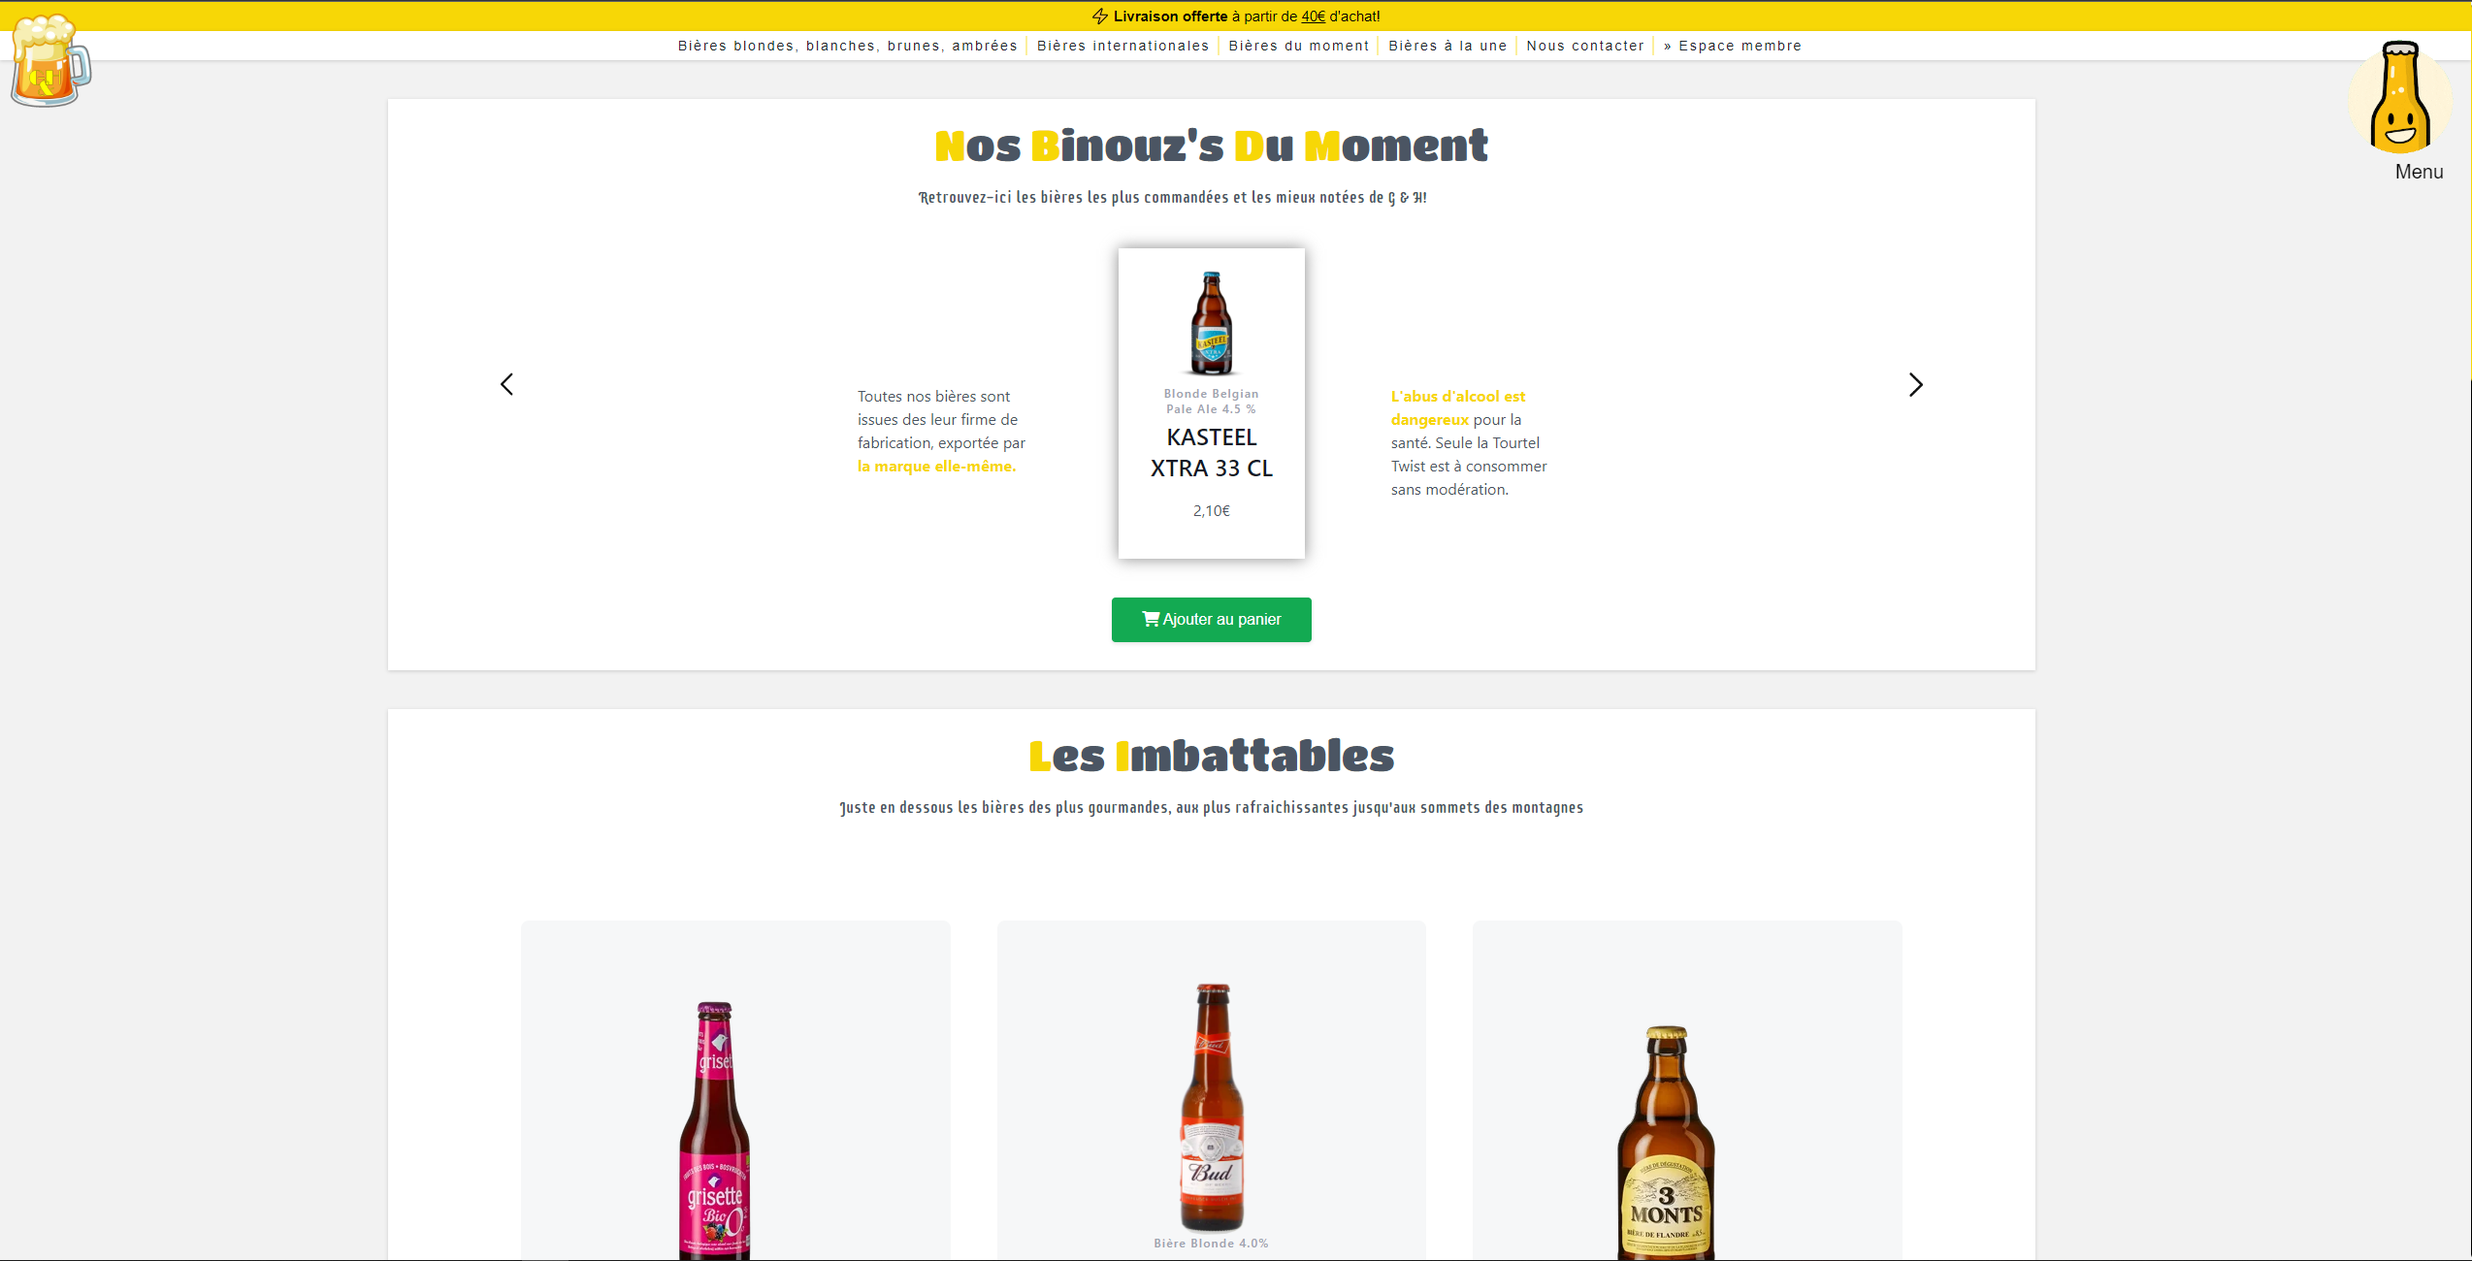
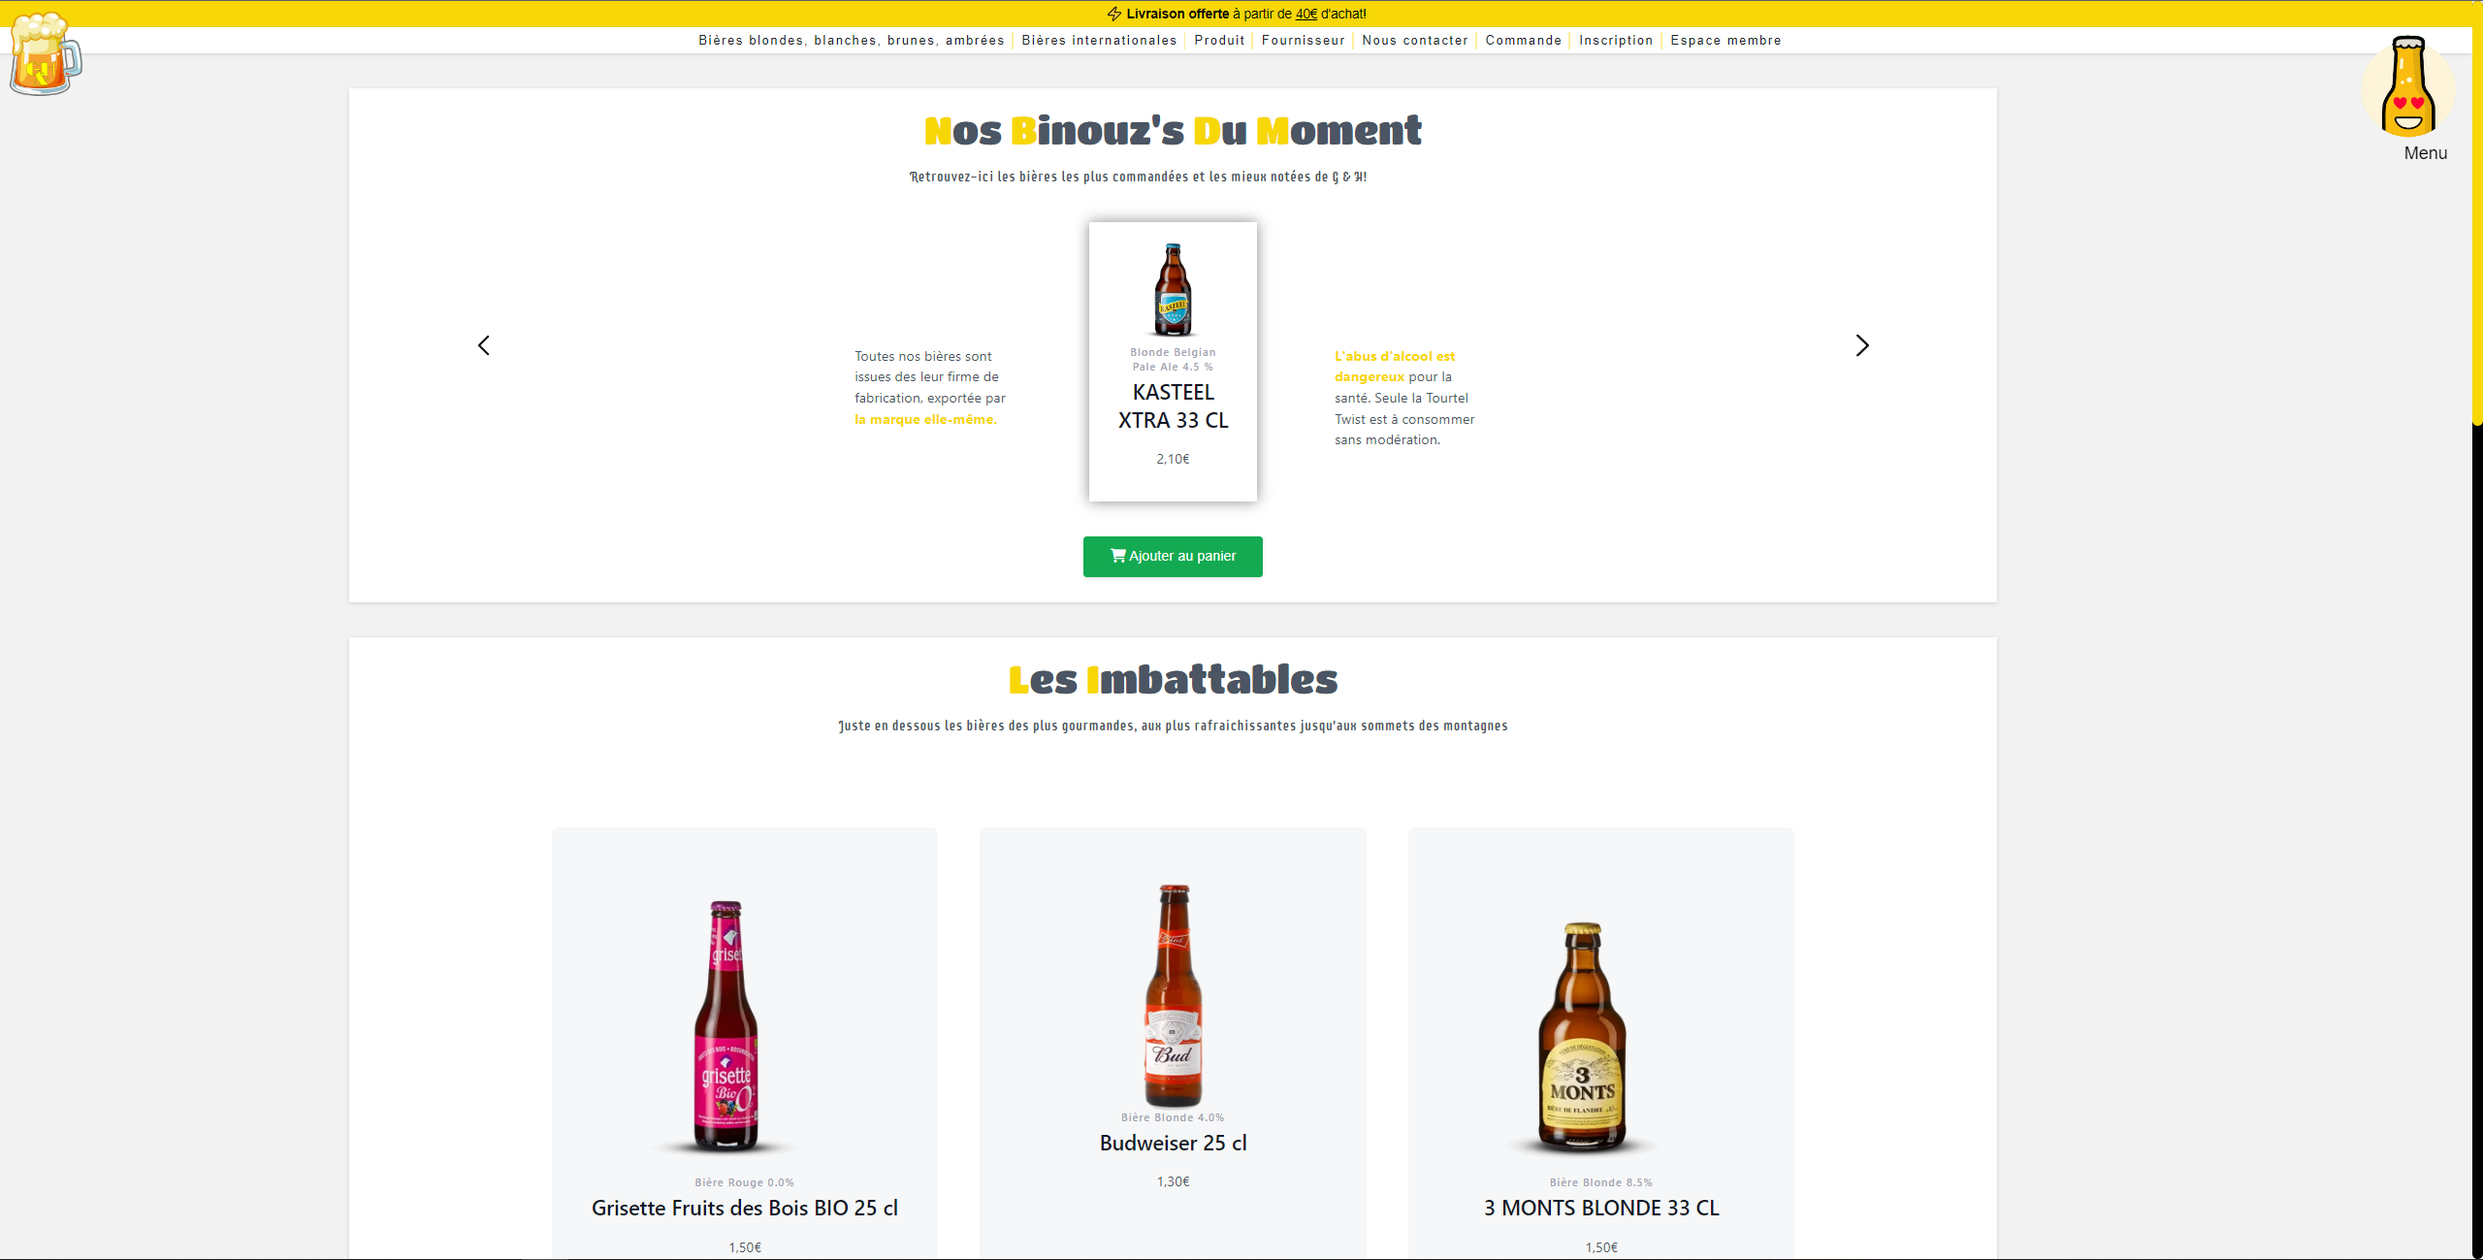
dsz

diff --git a/desc_ghbiere.html b/desc_ghbiere.html
@@ -74,7 +74,7 @@
           <div class="flex flex-wrap -m-4">
             <div class="lg:w-1/3 sm:w-1/2 p-4">
               <div class="flex relative">
-                <img alt="gallery" class="absolute inset-0 w-full h-full object-cover object-center" src="https://dummyimage.com/600x360">
+                <img alt="gallery" class="absolute inset-0 w-full h-full object-cover object-center" src="assets/img/accueil_ghbiere.jpg">
                 <div class="px-8 py-10 relative z-10 w-full border-4 border-gray-200 bg-white opacity-0 hover:opacity-100">
                   <h2 class="tracking-widest text-sm title-font font-medium text-indigo-500 mb-1">THE SUBTITLE</h2>
                   <h1 class="title-font text-lg font-medium text-gray-900 mb-3">Shooting Stars</h1>
@@ -84,7 +84,7 @@
             </div>
             <div class="lg:w-1/3 sm:w-1/2 p-4">
               <div class="flex relative">
-                <img alt="gallery" class="absolute inset-0 w-full h-full object-cover object-center" src="https://dummyimage.com/601x361">
+                <img alt="gallery" class="absolute inset-0 w-full h-full object-cover object-center" src="assets/img/form_fournisseur.jpg">
                 <div class="px-8 py-10 relative z-10 w-full border-4 border-gray-200 bg-white opacity-0 hover:opacity-100">
                   <h2 class="tracking-widest text-sm title-font font-medium text-indigo-500 mb-1">THE SUBTITLE</h2>
                   <h1 class="title-font text-lg font-medium text-gray-900 mb-3">The Catalyzer</h1>
@@ -94,7 +94,7 @@
             </div>
             <div class="lg:w-1/3 sm:w-1/2 p-4">
               <div class="flex relative">
-                <img alt="gallery" class="absolute inset-0 w-full h-full object-cover object-center" src="https://dummyimage.com/603x363">
+                <img alt="gallery" class="absolute inset-0 w-full h-full object-cover object-center" src="assets/img/form_produit.jpg">
                 <div class="px-8 py-10 relative z-10 w-full border-4 border-gray-200 bg-white opacity-0 hover:opacity-100">
                   <h2 class="tracking-widest text-sm title-font font-medium text-indigo-500 mb-1">THE SUBTITLE</h2>
                   <h1 class="title-font text-lg font-medium text-gray-900 mb-3">The 400 Blows</h1>
@@ -104,7 +104,7 @@
             </div>
             <div class="lg:w-1/3 sm:w-1/2 p-4">
               <div class="flex relative">
-                <img alt="gallery" class="absolute inset-0 w-full h-full object-cover object-center" src="https://dummyimage.com/602x362">
+                <img alt="gallery" class="absolute inset-0 w-full h-full object-cover object-center" src="assets/img/contact_ghbiere.jpg">
                 <div class="px-8 py-10 relative z-10 w-full border-4 border-gray-200 bg-white opacity-0 hover:opacity-100">
                   <h2 class="tracking-widest text-sm title-font font-medium text-indigo-500 mb-1">THE SUBTITLE</h2>
                   <h1 class="title-font text-lg font-medium text-gray-900 mb-3">Neptune</h1>
@@ -114,7 +114,7 @@
             </div>
             <div class="lg:w-1/3 sm:w-1/2 p-4">
               <div class="flex relative">
-                <img alt="gallery" class="absolute inset-0 w-full h-full object-cover object-center" src="https://dummyimage.com/605x365">
+                <img alt="gallery" class="absolute inset-0 w-full h-full object-cover object-center" src="assets/img/espace_membre_ghbiere.jpg">
                 <div class="px-8 py-10 relative z-10 w-full border-4 border-gray-200 bg-white opacity-0 hover:opacity-100">
                   <h2 class="tracking-widest text-sm title-font font-medium text-indigo-500 mb-1">THE SUBTITLE</h2>
                   <h1 class="title-font text-lg font-medium text-gray-900 mb-3">Holden Caulfield</h1>
@@ -124,7 +124,7 @@
             </div>
             <div class="lg:w-1/3 sm:w-1/2 p-4">
               <div class="flex relative">
-                <img alt="gallery" class="absolute inset-0 w-full h-full object-cover object-center" src="https://dummyimage.com/606x366">
+                <img alt="gallery" class="absolute inset-0 w-full h-full object-cover object-center" src="assets/img/modif_form_ghbiere.jpg">
                 <div class="px-8 py-10 relative z-10 w-full border-4 border-gray-200 bg-white opacity-0 hover:opacity-100">
                   <h2 class="tracking-widest text-sm title-font font-medium text-indigo-500 mb-1">THE SUBTITLE</h2>
                   <h1 class="title-font text-lg font-medium text-gray-900 mb-3">Alper Kamu</h1>
@@ -134,6 +134,95 @@
             </div>
           </div>
         </div>
+        <div class="container px-5 py-24 mx-auto flex flex-wrap">
+          <div class="flex flex-wrap -m-4 bg-sky-900">
+            <div class="p-4 lg:w-1/2 md:w-full">
+              <div class="flex border-2 rounded-lg border-gray-200 border-opacity-50 p-8 sm:flex-row flex-col bg-sky-900">
+                <div class="w-16 h-16 sm:mr-8 sm:mb-0 mb-4 inline-flex items-center justify-center rounded-full bg-indigo-100 text-indigo-500 flex-shrink-0">
+                    <svg xmlns="http://www.w3.org/2000/svg" xmlns:xlink="http://www.w3.org/1999/xlink" version="1.1" id="Capa_1" x="0px" y="0px" width="32.045px" height="32.046px" viewBox="0 0 32.045 32.046" style="enable-background:new 0 0 32.045 32.046;" xml:space="preserve">
+                        <g>
+                            <g>
+                                <path d="M25.302,6.499h-2.308v-0.6c0-1.181-0.957-2.138-2.137-2.138h-1.021C19.807,1.675,18.108,0,16.022,0    c-2.086,0-3.785,1.675-3.815,3.761h-1.021c-1.18,0-2.137,0.957-2.137,2.138v0.6H6.742c-0.765,0-1.408,0.618-1.408,1.383v22.78    c0,0.765,0.643,1.384,1.408,1.384h18.561c0.766,0,1.408-0.619,1.408-1.384V7.881C26.71,7.117,26.067,6.499,25.302,6.499z     M16.022,1.999c0.984,0,1.788,0.785,1.817,1.762h-3.634C14.235,2.784,15.038,1.999,16.022,1.999z M24.95,30.35H7.094V8.192h1.955    v1.564h13.945V8.192h1.955V30.35z"/>
+                                <path d="M22.476,12.69h-4.495c-0.707,0-1.283,0.527-1.283,1.236s0.576,1.238,1.283,1.238h4.495c0.708,0,1.282-0.529,1.282-1.238    S23.184,12.69,22.476,12.69z"/>
+                                <path d="M11.481,13.864l-0.965-0.752c-0.238-0.187-0.58-0.156-0.782,0.068l-0.556,0.616c-0.106,0.118-0.159,0.275-0.146,0.435    c0.014,0.159,0.092,0.305,0.217,0.403l1.683,1.328c0.406,0.321,0.988,0.287,1.354-0.079l2.949-2.949    c0.143-0.143,0.223-0.336,0.223-0.538s-0.08-0.396-0.223-0.538l-0.337-0.337c-0.297-0.297-0.778-0.297-1.075,0L11.481,13.864z"/>
+                                <path d="M22.476,18.424h-4.495c-0.707,0-1.283,0.529-1.283,1.238c0,0.707,0.576,1.238,1.283,1.238h4.495    c0.708,0,1.282-0.531,1.282-1.238C23.758,18.954,23.184,18.424,22.476,18.424z"/>
+                                <path d="M11.481,19.598l-0.965-0.752c-0.238-0.186-0.58-0.154-0.782,0.069l-0.556,0.616c-0.106,0.117-0.159,0.275-0.146,0.435    c0.014,0.158,0.092,0.306,0.217,0.403l1.683,1.328c0.407,0.32,0.989,0.285,1.355-0.08l2.95-2.949    c0.143-0.143,0.223-0.336,0.223-0.538c0-0.2-0.08-0.396-0.223-0.538L14.9,17.255c-0.297-0.297-0.778-0.297-1.075,0L11.481,19.598z    "/>
+                                <path d="M22.476,23.963h-4.495c-0.707,0-1.283,0.529-1.283,1.238s0.576,1.238,1.283,1.238h4.495c0.708,0,1.282-0.529,1.282-1.238    S23.184,23.963,22.476,23.963z"/>
+                                <path d="M11.481,25.137l-0.965-0.752c-0.238-0.188-0.58-0.156-0.782,0.068l-0.556,0.615c-0.106,0.119-0.16,0.275-0.146,0.436    c0.013,0.159,0.092,0.305,0.217,0.402l1.683,1.33c0.407,0.32,0.989,0.285,1.355-0.08l2.95-2.95c0.297-0.298,0.297-0.776,0-1.075    L14.9,22.794c-0.143-0.144-0.336-0.224-0.538-0.224s-0.395,0.08-0.538,0.224L11.481,25.137z"/>
+                            </g>
+                        </svg>
+                </div>
+                <div class="flex-grow">
+                  <h2 class="text-gray-900 text-lg title-font font-medium mb-3">Le projet</h2>
+                  <p class="leading-relaxed text-base">Ce projet a eu 2 étapes. Tout d'abord, un projet a 2 avec un camarade à moi de mon école, nous avons eu à réaliser un site web avec plsuieurs pages fonctionnel. Deuxièment, je me suis servis de ce site pour incorporer tout les petit exercise de PHP que j'effectuais en cours.</p>
+                </div>
+              </div>
+            </div>
+
+            <div class="p-4 lg:w-1/2 md:w-full">
+              <div class="flex border-2 rounded-lg border-gray-200 border-opacity-50 p-8 sm:flex-row flex-col">
+                <div class="w-16 h-16 sm:mr-8 sm:mb-0 mb-4 inline-flex items-center justify-center rounded-full bg-indigo-100 text-indigo-500 flex-shrink-0">
+                    <svg xmlns="http://www.w3.org/2000/svg" xmlns:xlink="http://www.w3.org/1999/xlink" version="1.1" id="Layer_1" x="0px" y="0px" width="30" height="30" viewBox="796 796 200 200" enable-background="new 796 796 200 200" xml:space="preserve"><circle cx="18" cy="5" r="3"></circle><circle cx="6" cy="12" r="3"></circle>
+                        <g>
+                            <g>
+                                <path d="M976.83,857.4l-56.941-56.941c-2.874-2.875-6.696-4.458-10.762-4.458H825.93c-8.393,0-15.218,6.828-15.218,15.222v169.56    c0,8.393,6.825,15.219,15.218,15.219h140.139c8.392,0,15.219-6.826,15.219-15.219V868.162    C981.288,864.099,979.705,860.275,976.83,857.4z M969.675,980.781c0,1.989-1.616,3.608-3.605,3.608H825.93    c-1.989,0-3.605-1.619-3.605-3.608V811.22c0-1.988,1.616-3.605,3.605-3.605h79.41c2.174,0,3.936,1.762,3.936,3.936v42.937    c0,7.25,5.876,13.126,13.123,13.126h43.343c1.044,0,2.045,0.415,2.783,1.152c0.738,0.738,1.152,1.739,1.152,2.783L969.675,980.781    z"/>
+                            </g>
+                            <g>
+                                <g>
+                                    <path d="M872.593,962.403c-1.527,0-3.054-0.583-4.219-1.749l-34.132-34.131l34.132-34.131c2.331-2.33,6.108-2.329,8.438,0     c2.331,2.33,2.331,6.108,0,8.438l-25.693,25.693l25.693,25.693c2.331,2.329,2.331,6.107,0,8.437     C875.647,961.82,874.12,962.403,872.593,962.403z"/>
+                                </g>
+                                <g>
+                                    <path d="M919.407,962.403c-1.527,0-3.055-0.583-4.219-1.749c-2.331-2.329-2.331-6.107,0-8.437l25.691-25.693l-25.691-25.693     c-2.331-2.33-2.331-6.108,0-8.438c2.328-2.33,6.109-2.33,8.438,0l34.132,34.131l-34.132,34.131     C922.462,961.82,920.934,962.403,919.407,962.403z"/>
+                                </g>
+                                <g>
+                                    <path d="M888.169,962.404c-0.49,0-0.987-0.061-1.483-0.188c-3.193-0.816-5.12-4.066-4.303-7.26l15.297-59.823     c0.815-3.192,4.067-5.119,7.261-4.303c3.191,0.816,5.117,4.066,4.301,7.259l-15.296,59.825     C893.256,960.611,890.83,962.404,888.169,962.404z"/>
+                                </g>
+                            </g>
+                        </g>
+                        </svg>
+                </div>
+                <div class="flex-grow">
+                  <h2 class="text-gray-900 text-lg title-font font-medium mb-3">Technologies</h2>
+                  <p class="leading-relaxed text-base">Les technologies que nous avons princiaplement utiliser sont l'HTML et le CSS pour la partie Front-End du site et nous avons incorporer quelque petit fonctionnalité JS. Et j'ai également utiliser du PHP et SQL pour tout ce qui est formulaire, modification et suppression.</p>
+                </div>
+              </div>
+            </div>
+
+            <div class="p-4 lg:w-1/2 md:w-full">
+              <div class="flex border-2 rounded-lg border-gray-200 border-opacity-50 p-8 sm:flex-row flex-col">
+                <div class="w-16 h-16 sm:mr-8 sm:mb-0 mb-4 inline-flex items-center justify-center rounded-full bg-indigo-100 text-indigo-500 flex-shrink-0">
+                    <svg xmlns="http://www.w3.org/2000/svg" xmlns:xlink="http://www.w3.org/1999/xlink" version="1.1" id="Capa_1" x="0px" y="0px" width="30" height="30" viewBox="0 0 67.025 67.026" style="enable-background:new 0 0 67.025 67.026;" xml:space="preserve">
+                        <g>
+                            <g>
+                                <g>
+                                    <polygon points="41.441,29.477 44.576,31.269 50.848,27.685 41.441,22.086    "/>
+                                    <path d="M60.48,18.052l2.24-4.031c1.791-3.137-3.359-6.721-5.824-8.063c-2.465-1.345-8.063-4.257-9.855-0.896l-3.137,5.376     c-3.137-0.672-6.721-1.12-10.304-1.12C15.008,9.317,0,19.398,0,31.718c0,12.318,15.008,22.398,33.6,22.398c0,0,0,0,0.225,0     c0.224,2.688-2.912,7.168-7.393,9.407c17.698,0,25.761-13.216,25.761-13.216c8.959-4.032,14.783-10.752,14.783-18.592     C67.424,26.565,64.736,21.861,60.48,18.052z M15.455,37.99c-1.792,0-3.136-1.346-3.136-3.138c0-1.792,1.344-3.136,3.136-3.136     s3.136,1.344,3.136,3.136C18.591,36.644,17.025,37.99,15.455,37.99z M23.743,37.99c-1.792,0-3.136-1.346-3.136-3.138     c0-1.792,1.344-3.136,3.136-3.136s3.136,1.344,3.136,3.136C26.879,36.644,25.535,37.99,23.743,37.99z M32.032,37.99     c-1.792,0-3.137-1.346-3.137-3.138c0-1.792,1.345-3.136,3.137-3.136s3.136,1.344,3.136,3.136     C35.168,36.644,33.824,37.99,32.032,37.99z M51.969,28.357l-6.496,3.584l-5.377,2.911v-6.047v-7.392l8.961-15.456     c0.447-0.896,3.584,0,6.943,1.792s5.6,4.031,4.928,4.928L51.969,28.357z"/>
+                                </g></svg>
+                </div>
+                <div class="flex-grow">
+                  <h2 class="text-gray-900 text-lg title-font font-medium mb-3">Contexte</h2>
+                  <p class="leading-relaxed text-base">Ce site a été créé princiaplement pour une évalution et ma servit ensuite à avoir un aspect visuelle pour tout mes erxercise de PHP et SQL.</p>
+                   
+                    
+                  </a>
+                </div>
+              </div>
+            </div>
+            <div class="p-4 lg:w-1/2 md:w-full ">
+              <div class="flex border-2 rounded-lg border-gray-200 border-opacity-50 p-8 sm:flex-row flex-col">
+                <div class="w-16 h-16 sm:mr-8 sm:mb-0 mb-4 inline-flex items-center justify-center rounded-full bg-indigo-100 text-indigo-500 flex-shrink-0">
+                    <svg xmlns="http://www.w3.org/2000/svg" width="24" height="24" viewBox="0 0 24 24" fill="none" stroke="#000000" stroke-width="2" stroke-linecap="round" stroke-linejoin="round"><circle cx="18" cy="5" r="3"></circle><circle cx="6" cy="12" r="3"></circle><circle cx="18" cy="19" r="3"></circle><line x1="8.59" y1="13.51" x2="15.42" y2="17.49"></line><line x1="15.41" y1="6.51" x2="8.59" y2="10.49"></line></svg>
+                </div>
+                <div class="flex-grow">
+                  <h2 class="text-gray-900 text-lg title-font font-medium mb-3">Compétences</h2>
+                  <p class="leading-relaxed text-base">Grace à ce projet j'ai appris énormément de chose. Tout d'abord finaliser mon apprentissage de mon HTML et CSS et découvrir en même temps les bases du JS. mais surtout j'ai énormément appris en PHP/SQL avec la création de formulaire connecté à une base de donné avec d'autre formulaire pour les modifier et les supprimer. pour finir j'ai aussi appris en termes de gestion d'équipe (ce mettre d'accord avec son camarade sur qu'est ce que chacun fait, ce mettre d'accord sur le style du site).</p>
+                   
+                    
+                  </a>
+                </div>
+              </div>
+            </div>
+          </div>
       
       </section>
       <script src="assets/vendor/purecounter/purecounter.js"></script>
